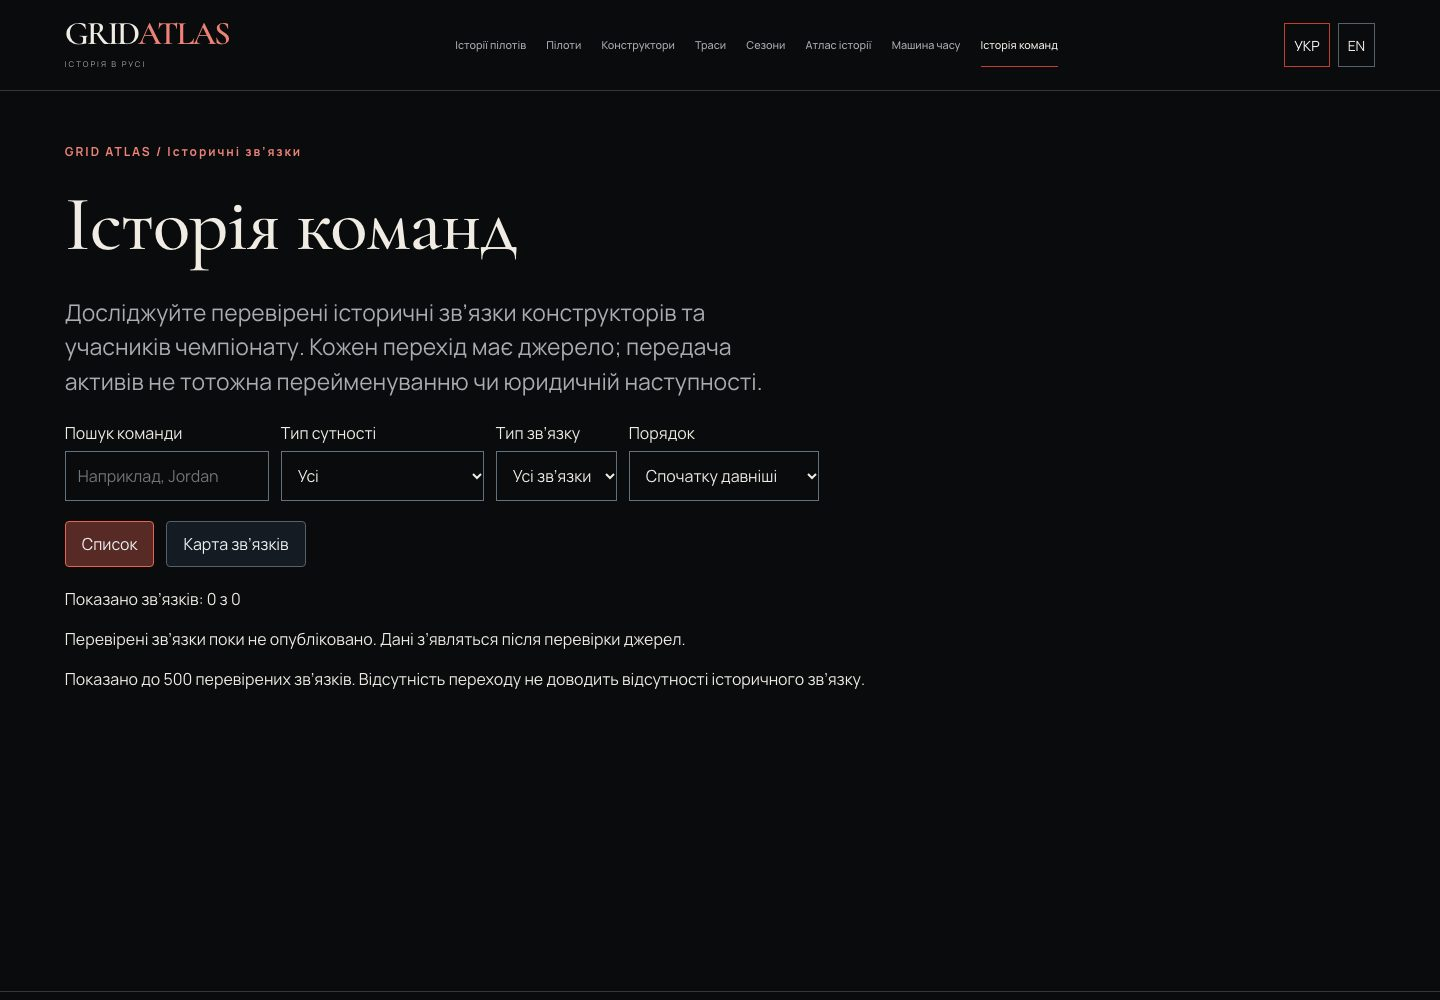
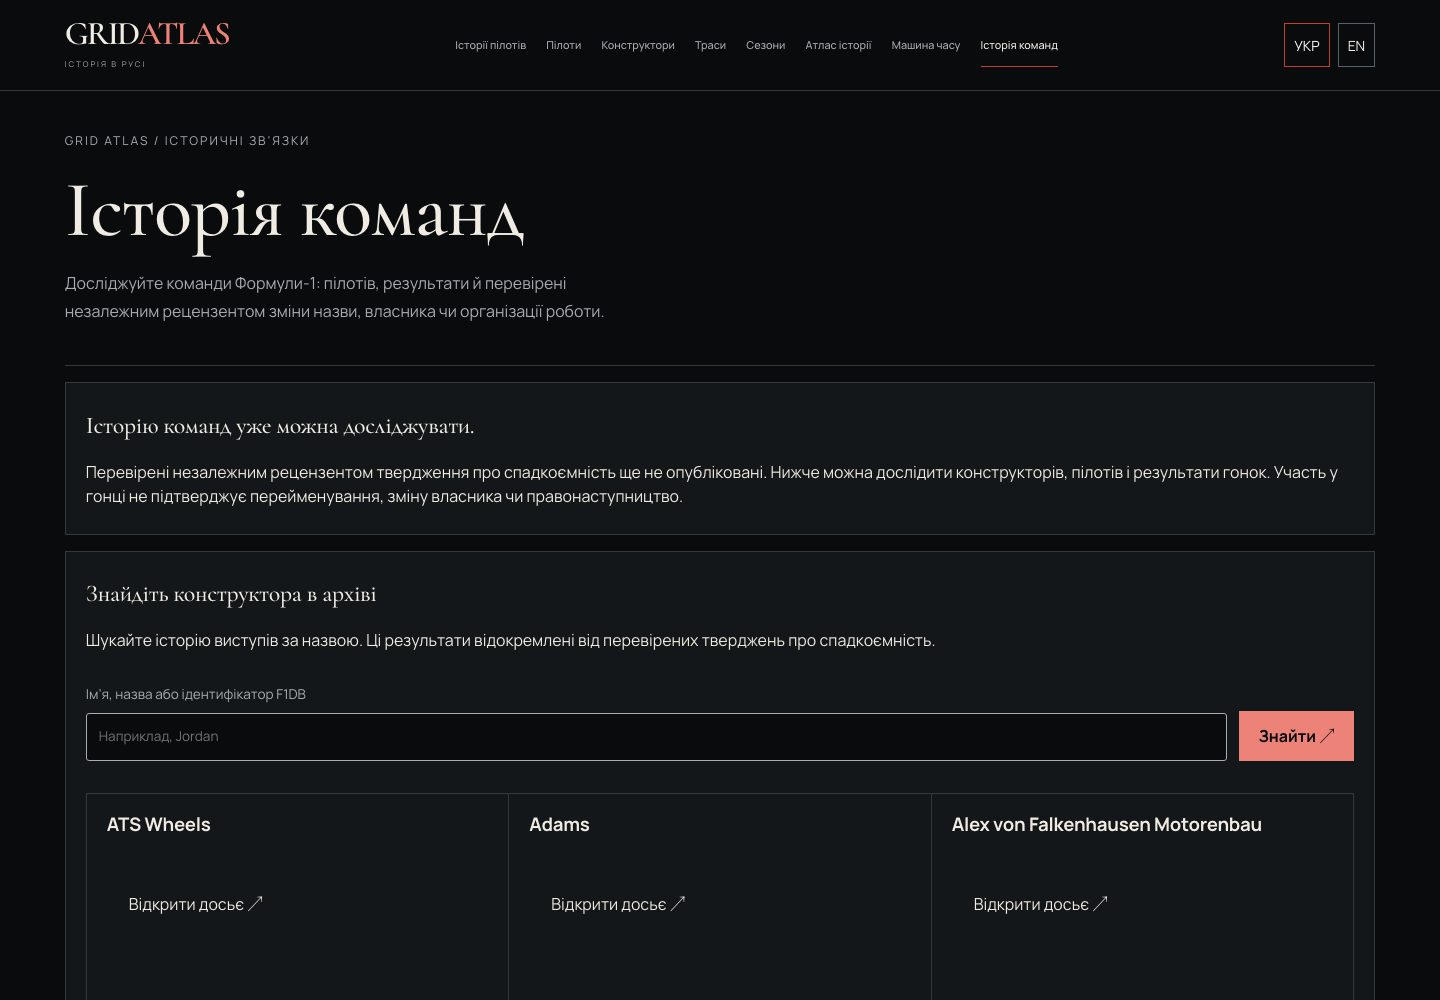
test(design): verify combined archive typography and readable map labels

diff --git a/tests/real-archive/product-editorial-v3.spec.ts b/tests/real-archive/product-editorial-v3.spec.ts
@@ -28,6 +28,9 @@ for (const locale of ['en','uk'] as const) {
         expect(await chart.getByRole('table').locator('tbody tr').count()).toBe(seasonApi.data.length);
         const first=[...seasonApi.data].sort((a,b)=>a.year-b.year)[0];
         await expect(chart.getByRole('table').locator('tbody tr').first()).toContainText(String(first.year));
+        await expect(chart.getByRole('table').locator('tbody tr').first().locator('td')).toHaveText([String(first.starts),String(first.wins),String(first.podiums)]);
+        const zeroBars=chart.locator('[aria-hidden=true] > span[style*="0%"]');
+        for(const bar of await zeroBars.all()) {const height=await bar.evaluate(el=>el.getBoundingClientRect().height);const style=await bar.getAttribute('style');if(/height:\s*0%/.test(style??''))expect(height).toBe(0);}
       }
     });
   }

diff --git a/apps/web/src/components/history-atlas/flow-network.tsx b/apps/web/src/components/history-atlas/flow-network.tsx
@@ -128,7 +128,7 @@ function Canvas({ graph, locale, selected, onSelect }: Props) {
     animated:
       !reduce &&
       graph.nodes.find((n) => n.key === e.to)?.entity_id === selected,
-    label: recordCountLabel(e.races, locale, "races"),
+    label: `${e.races} ${locale === 'en' ? (e.races === 1 ? 'race' : 'races') : new Intl.PluralRules('uk').select(e.races) === 'one' ? 'гонка' : new Intl.PluralRules('uk').select(e.races) === 'few' ? 'гонки' : 'гонок'}`,
     ariaLabel: `${graph.nodes.find((n) => n.key === e.from)!.name} — ${graph.nodes.find((n) => n.key === e.to)!.name}. ${recordCountLabel(e.races, locale, "races")}`,
     domAttributes: { "aria-roledescription": t.connectionNode },
     style: {

diff --git a/apps/web/src/components/history-atlas/flow-layout.ts b/apps/web/src/components/history-atlas/flow-layout.ts
@@ -15,7 +15,7 @@ export function atlasLayout(
   );
   const layout = new dagre.graphlib.Graph().setGraph({
     rankdir: direction,
-    ranksep: direction === "TB" ? 46 : 80,
+    ranksep: direction === "TB" ? 46 : 100,
     nodesep: 28,
     marginx: 24,
     marginy: 24,

diff --git a/docs/design/product-editorial-v3/verification.md b/docs/design/product-editorial-v3/verification.md
@@ -1,0 +1,45 @@
+# Editorial verification — 24 October 2026
+
+Stacked base: PR A #297, `c9235d298e600b7e5892032e05d3f797990c5750`. Design files do not overlap A's discovery/copy diff. The first design build was also tested against main; final evidence uses A+B together. No deployment or release approval.
+
+| Command | Result |
+| --- | --- |
+| `pnpm install --frozen-lockfile` | Passed with the repository lockfile |
+| `pnpm check` | Passed |
+| `pnpm lint` | Passed on stacked base; A repairs existing-main local media-preview lint errors |
+| `pnpm typecheck` | Passed |
+| `pnpm test` | 244 passed |
+| `python3 -m unittest discover -s tests -v` | 378 passed |
+| `pnpm build` | Passed; existing archive-rhythm autoprefixer warnings remain |
+| `V3_API=http://127.0.0.1:3480 pnpm exec playwright test --config playwright.product-editorial-v3.config.ts` | 60 passed on the real archive, Chromium/WebKit/mobile Chromium |
+| `pnpm audit:media --as-of 2026-10-24` | Passed; zero public photographs |
+| `python3 scripts/audit-doc-links.py` / `git diff --check` | Passed |
+
+API/database integration on A: 42 passed, one existing optional approved-publication case skipped, disposable owned schemas. B changes no API, SQL, importer or migrations. The same checksum-verified pinned F1DB v2026.17.0 import powers both previews. API 3480; A web 3481; A+B web 3483. Node 24.21.0, pnpm 10.18.3.
+
+## What the browser suite verifies
+
+Nine required subjects in both languages: Senna, Hamilton, Verstappen, Ferrari, McLaren, Silverstone, Monaco, Spa-Francorchamps, Monza. Canonical identities resolve through actual source IDs. Chromium uses 1440px, WebKit 1024px, mobile Chromium 390px. Each profile is checked at 200% text, with native identity/source disclosures and exact chart table values checked against API counts. Tools are checked for overflow, keyboard skip navigation, clipped containers, reduced-motion animation state and public page errors. SEO titles and existing canonical routes remain intact.
+
+The initial tests incorrectly requested Ukrainian font glyphs on English pages that do not load that subset, and treated normal serif glyph overhang as clipping. Corrected tests use each page’s actual language, and detect text overflow only in clipping containers. Rendered screenshots were inspected alongside these tests. A zero-height patterned bar finding was fixed and tested as zero visible height.
+
+Independent original-diff review found no remaining blockers after fixes to zero values and native disclosure markup. The existing encyclopedia fixture test now expands identity metadata using keyboard activation before querying its definitions. No accessibility checks are disabled.
+
+## Visual evidence
+
+Matching baseline and final native captures: EN/UK at 1440×1000, 1024×1000 and 390×844, all five tool views. Thirty core before / thirty after screenshots report zero document overflow and zero page errors. Four additional captures show the live map inspector and Stories at 200% text. Source JSON includes status, loaded font family/weight and height. Cormorant/Manrope Cyrillic subsets render correctly; existing OFL files remain unchanged. No new font or imagery dependency.
+
+| Surface | Before | Final A+B |
+| --- | --- | --- |
+| Atlas | [UK desktop](screenshots/before-atlas-uk-1440.jpg) | [UK desktop](screenshots/after-b-atlas-uk-1440.jpg) · [map inspector](screenshots/after-b-atlas-focus-uk-1440.jpg) |
+| Time Machine | [UK desktop](screenshots/before-comparison-uk-1440.jpg) | [UK desktop](screenshots/after-b-comparison-uk-1440.jpg) |
+| Stories | [UK mobile](screenshots/before-stories-uk-390.jpg) | [UK mobile](screenshots/after-b-stories-uk-390.jpg) · [200% text](screenshots/after-b-stories-uk-390-text200.jpg) |
+| Lineage | [EN desktop](screenshots/before-lineage-en-1440.jpg) | [EN desktop](screenshots/after-b-lineage-en-1440.jpg) |
+
+Reproduce: start the production API on 3480 and this branch's production web on 3483, then run `node scripts/capture-product-editorial-v3.mjs after-b`. Keep build and preview output directories separate when rebuilding.
+
+## Boundaries and next action
+
+Source/copy work is in A; B retains all qualification and public evidence access. Chart first-place/top-three result entries are not relabelled unique race wins/podiums. No legal succession, official starts, source approval, rights clearance or deployed acceptance is inferred. No image or article publication changed. Existing approved SVGs and recorded-data fallbacks remain.
+
+PR C is blocked by #290's independent human media clearance. PR A's Commons research-original CI run encountered HTTP 429 for three of five source files; the fail-closed gate remains intact. That check is automated byte verification, not publication approval. Do not merge while CI is red. Production hosting, operational checks, editorial/media acceptance and #104 remain release gates. Physical-device and hardware screen-reader review are not claimed.

diff --git a/docs/design/product-editorial-v3/README.md b/docs/design/product-editorial-v3/README.md
@@ -1,6 +1,6 @@
 # Editorial experience V3 — PR B
 
-Base `d0ec3a6`. This branch is independently buildable from main and changes no files owned by PR A's copy/discovery changes. Active biography, constructor/circuit research and media approvals remain isolated.
+Audited visual base: `d0ec3a6`. This is a stacked PR on PR A (#297, `c9235d2`), retaining a disjoint design diff and independently runnable verification. PR A supplies discovery behavior and repairs pre-existing lint errors. Active biography, constructor/circuit research and media approvals remain isolated.
 
 The existing Editorial Racing serif/sans/mono families, ivory/charcoal/burgundy surfaces, rules, gutters, focus color and semantic chart colors now cover Atlas, Explorer, Time Machine and Stories. No new typography library, font or media asset. Cormorant's licensed Ukrainian subset loads and renders correctly; Ukrainian headings retain a generous scale, relaxed tracking and a taller line height. Manrope remains the reading and control face.
 
